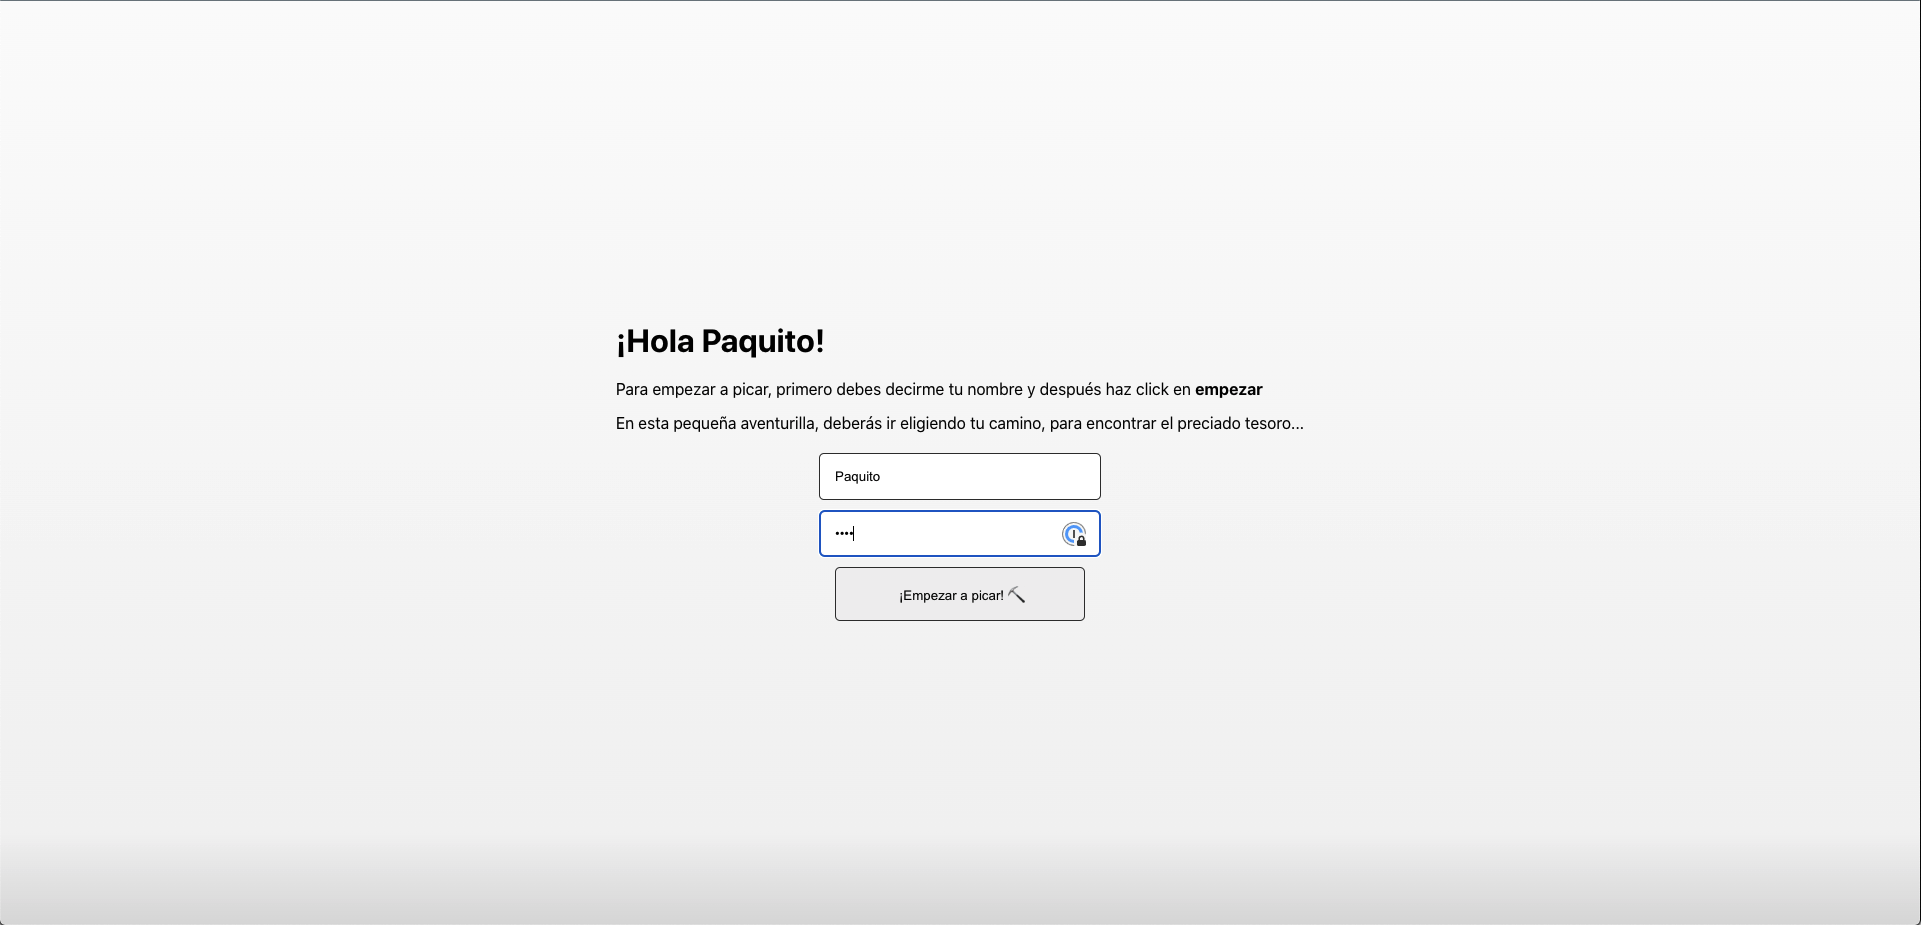
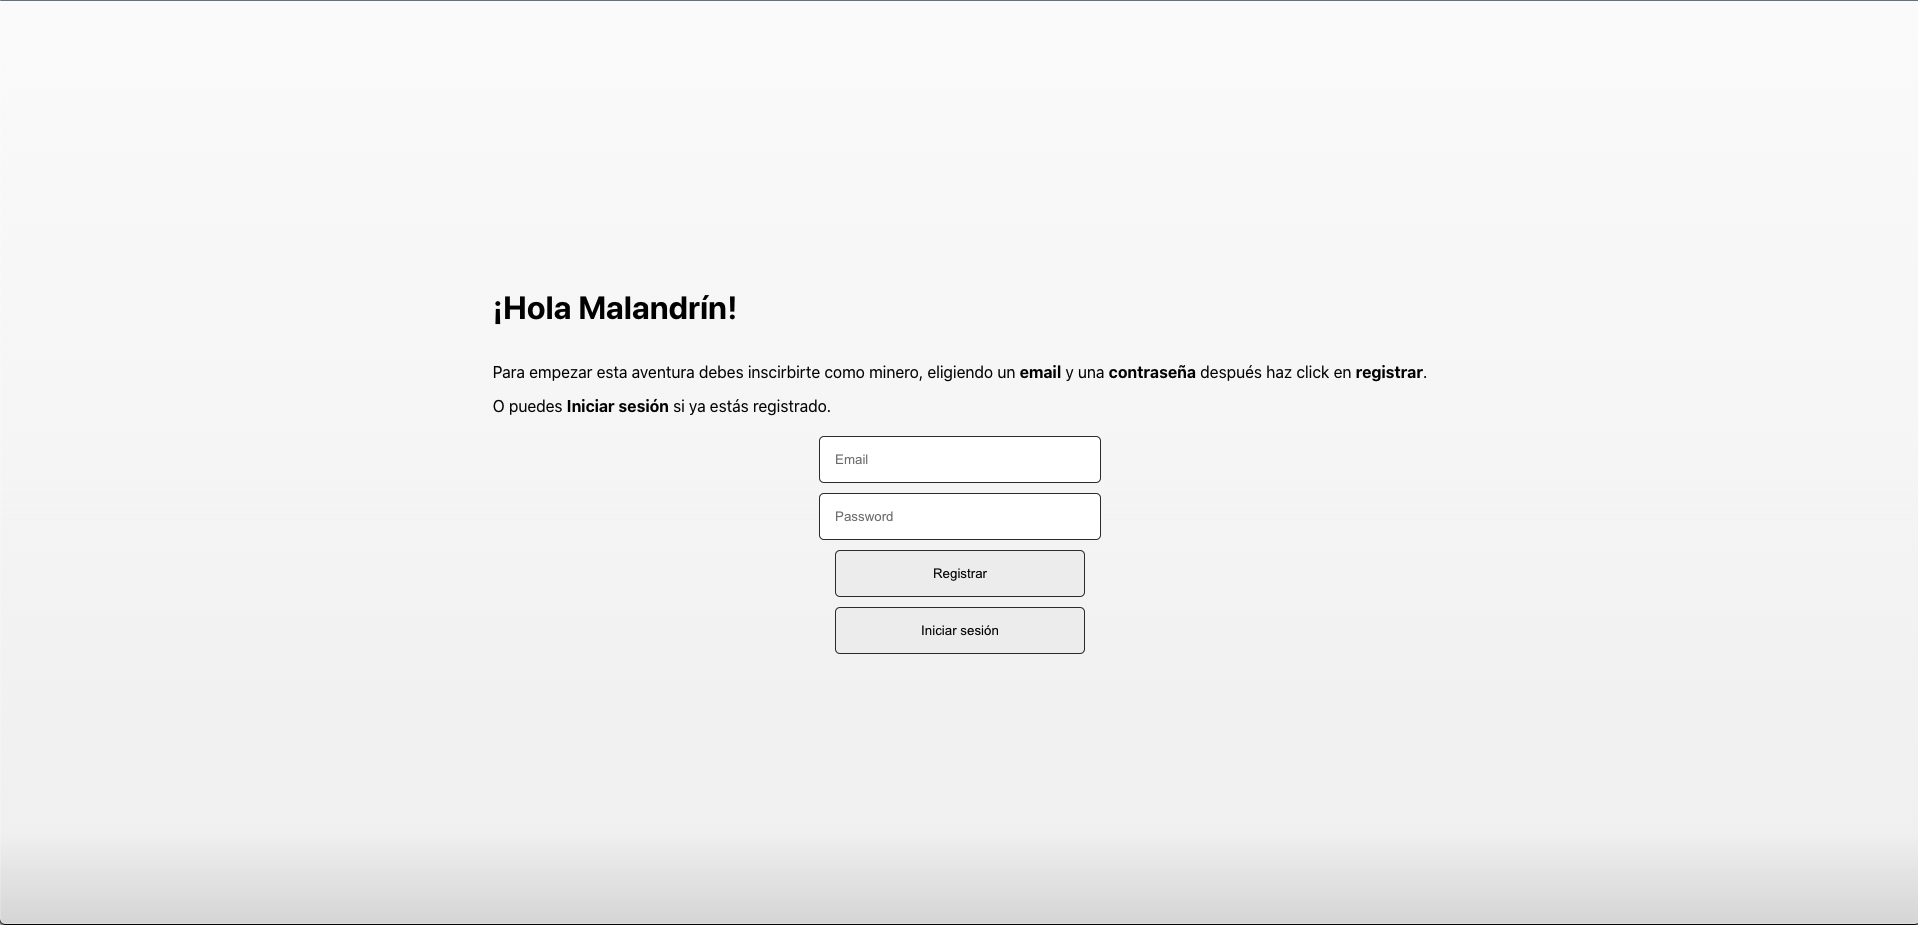
Añado gestión del usuario

Changed region(s): [[0.2461, 0.3027, 0.7383, 0.6962], [0.0, 0.9989, 1.0, 1.0]]

diff --git a/backend-de-la-suerte-app/src/App.js b/backend-de-la-suerte-app/src/App.js
@@ -1,24 +1,21 @@
 import './App.css';
-import {
-  createClient
-} from '@supabase/supabase-js'
+import { supabase } from './supabase';
+
 import {
   useState,
   useEffect
 } from 'react'
 import { LoadingSpinner } from './components/LoadingSpinner';
+import { Auth } from './components/Auth';
+import { Account } from './components/Account';
 import { EmojiCard } from './components/EmojiCard';
 
-const supabaseUrl = process.env.REACT_APP_SUPABASE_URL
-const supabaseAnonKey = process.env.REACT_APP_SUPABASE_ANON_KEY
 
-export const supabase = createClient(supabaseUrl, supabaseAnonKey)
 
 
 const App = () => {
     const [loading, setLoading] = useState(false)
     const [emojis, setEmojis] = useState([])
-    const [scene, setScene] = useState(1)
     const [partidaStarted, setPartidaStarted] = useState(false)
     const [partida, setPartida] = useState({})
     const [currentAttempts, setCurrentAttempts] = useState(-1)
@@ -29,6 +26,17 @@ const App = () => {
     const [currentCat, setCurrentCat] = useState({})
     const [currentCatId, setCurrentCatId] = useState(0)
     const [attemptSummary, setAttemptSummary] = useState([])
+    const [session, setSession] = useState(null)
+    const [numeroPartidas, setNumeroPartidas] = useState(0)
+
+    useEffect(() => {
+      setSession(supabase.auth.session())
+  
+      supabase.auth.onAuthStateChange((_event, session) => {
+        setSession(session)
+      })
+    }, [])
+
 
     // Para que cargue solo una vez los primeros emojis
     useEffect(() => {
@@ -56,6 +64,18 @@ const App = () => {
         getEmojisByCat(partida.id_categoriafinal)
       }
     }, [maxAttemptsReached])
+
+    useEffect(() => {
+      if(session){
+        getNumeroPartidas()
+      }
+    }, [session])
+
+    
+    const showLoading = async (showLoading) => {
+      setLoading(showLoading)
+
+    }
 
 
     const getCategoryById = async (catId) => {
@@ -220,21 +240,23 @@ const App = () => {
         console.log(error.message)
       }
     }
+    const reIniciarPartida = () => {
+      getNumeroPartidas()
+
+      setPartidaStarted(false)
+      setMaxAttemptsReached(false)
+    }
+
 
     const iniciarPartida = () => {
 
-      if(userName===''||userPassword===''){
-        alert('Por favor introduce usuario y contraseña')
-        return 
-      }
-
+      setMaxAttemptsReached(false)
 
 
       setLoading(true)
-      registrarUsuario().then(userData => {
+      
 
-        console.log({'response':userData})
-        registrarPartida(userData.id).then(response => {
+        registrarPartida(supabase.auth.user().id).then(response => {
           getCategoryById(response.id_categoriaInicial).then(catResponse => {
             setCurrentCat(catResponse)
             setCurrentCatId(catResponse.id)
@@ -247,38 +269,37 @@ const App = () => {
 
             
         })
-      })
+
       
 
     }
-    const registrarUsuario = async () => {
-      // Registro el usuario
+
+
+    // Make a function that gets the number of registers in table partidas for a user id
+    const getNumeroPartidas = async () => {
+      console.log('getNumeroPartidas')
       try {
         const {
           data,
           error
         } = await supabase
-          .from('mineros')
-          .insert({'userName':userName, 'userPassword':userPassword})
-        if (error != null) {
+          .from('partidas')
+          .select('*')
+          .eq('id_user', supabase.auth.user().id)
+        if (error !== null) {
           throw error
         }
         if(data){
-          console.log({'data':data})
-          return data[0]
+          console.log(data.length)
+          setNumeroPartidas(data.length)
         } 
         
       } catch (error) {
-        alert(error)
+        console.log(error.message)
       } finally {
       }
 
-
-
     }
-
-
-
 
     const registrarPartida = async (userId) => {
       try {
@@ -287,7 +308,7 @@ const App = () => {
           error
         } = await supabase
           .from('partidas')
-          .insert({'id_minero':userId})
+          .insert({'id_user':userId})
         if (error !== null) {
           throw error
         }
@@ -317,13 +338,16 @@ const App = () => {
       return ( <LoadingSpinner></LoadingSpinner> )
     }
     if(!partidaStarted){
-      return <div className='container'><h1>¡Hola {userName.length !== 0 && userName}{userName.length === 0 && 'Malandrín'}!</h1><p>Para empezar a picar, primero debes decirme tu nombre y después haz click en <strong>empezar</strong></p><p>En esta pequeña aventurilla, deberás ir eligiendo tu camino, para encontrar el preciado tesoro...</p>
-      <p className="red">Los campos son obligatorios para empezar</p>
-
+      return <div className='container'><h1>¡Hola {!session ? 'Malandrín' : session.user.email}!</h1>
+      {!session ? <div><p>Para empezar esta aventura debes inscirbirte como minero, eligiendo un <strong>email</strong> y una <strong> contraseña</strong> después haz click en <strong>registrar</strong>.</p><p>O puedes <strong>Iniciar sesión</strong> si ya estás registrado.</p></div> : <div><h3>¡Bienvenido!</h3><p>Cuando estés listo puedes hacer click en <strong>Empezar a picar</strong></p><p>Has jugado un total de <strong>{numeroPartidas}</strong> partidas</p> </div> }
       <div className='loginForm'>
-      <input required value={userName} onInput={e => setUserName(e.target.value)} type="text" name="userName" placeholder="Paquito el minero"></input>
-      <input required value={userPassword} onInput={e => setUserPassword(e.target.value)} type="password" name="userPassword" placeholder="1234"></input>
-      <button onClick={() => iniciarPartida()}>¡Empezar a picar! ⛏</button>
+        {!session ? <Auth showLoading={showLoading} /> : 
+          <div>
+          <button className='start' onClick={() => iniciarPartida()}>¡Empezar a picar! ⛏</button>
+          <Account key={session.user.id} session={session} />
+        </div>      
+        }
+    
       </div>
       </div>
     }
@@ -350,6 +374,8 @@ const App = () => {
           </li>
         ))
       } </ul>
+
+      <button className='restart' onClick={() => reIniciarPartida()}>¡Volver a inicio! ⛏</button>
     </div>
 
     } 

diff --git a/backend-de-la-suerte-app/src/components/Auth/index.js b/backend-de-la-suerte-app/src/components/Auth/index.js
@@ -1,0 +1,78 @@
+import { useState } from 'react'
+import { supabase } from '../../supabase';
+import { LoadingSpinner } from  '../LoadingSpinner';
+
+
+export const Auth = (props) => {
+
+
+  const [loading, setLoading] = useState(false)
+  const [email, setEmail] = useState('')
+  const [password, setPassword] = useState('')
+
+  const handleRegister = async (e) => {
+
+    try {
+      props.showLoading(true)
+      const { error } = await supabase.auth.signUp({ email, password });
+      if (error) throw error
+    } catch (error) {
+      alert(error.error_description || error.message)
+    } finally {
+      props.showLoading(false)
+    }
+  }
+
+
+
+
+  const handleLogin = async (e) => {
+
+    try {
+      props.showLoading(true)
+      const { error } = await supabase.auth.signIn({ email, password });
+      if (error) throw error
+    } catch (error) {
+      alert(error.error_description || error.message)
+    } finally {
+      props.showLoading(false)
+    }
+  }
+  if (loading) {
+    return ( <LoadingSpinner></LoadingSpinner> )
+  }
+  return (
+    <div className="row flex flex-center">
+      <div className="col-6 form-widget" aria-live="polite">
+        {loading ? (
+          'Sending magic link...'
+        ) : (
+          <form className='loginForm'>
+            <input
+              id="email"
+              className="inputField"
+              type="email"
+              placeholder="Email"
+              value={email}
+              onChange={(e) => setEmail(e.target.value)}
+            />
+            <input
+              id="password"
+              className="inputField"
+              type="password"
+              placeholder="Password"
+              value={password}
+              onChange={(e) => setPassword(e.target.value)}
+            />
+            <button className="button block" aria-live="polite" onClick={() => handleRegister()}>
+              Registrar
+            </button>
+            <button className="button block" aria-live="polite" onClick={() => handleLogin()}>
+              Iniciar sesión
+            </button>            
+          </form>
+        )}
+      </div>
+    </div>
+  )
+}

diff --git a/backend-de-la-suerte-app/src/components/Account/index.js b/backend-de-la-suerte-app/src/components/Account/index.js
@@ -1,0 +1,81 @@
+import { useState, useEffect } from 'react'
+import { supabase } from '../../supabase';
+import { LoadingSpinner } from  '../LoadingSpinner';
+
+
+export const Account = ({ session }) => {
+  const [loading, setLoading] = useState(true)
+  const [username, setUsername] = useState(null)
+  const [website, setWebsite] = useState(null)
+  const [avatar_url, setAvatarUrl] = useState(null)
+
+  useEffect(() => {
+    getProfile()
+  }, [session])
+
+  const getProfile = async () => {
+    try {
+      setLoading(true)
+      const user = supabase.auth.user()
+
+      let { data, error, status } = await supabase
+        .from('profiles')
+        .select(`username, website, avatar_url`)
+        .eq('id', user.id)
+        .single()
+
+      if (error && status !== 406) {
+        throw error
+      }
+
+      if (data) {
+        setUsername(data.username)
+        setWebsite(data.website)
+        setAvatarUrl(data.avatar_url)
+      }
+    } catch (error) {
+      alert(error.message)
+    } finally {
+      setLoading(false)
+    }
+  }
+
+  const updateProfile = async (e) => {
+    e.preventDefault()
+
+    try {
+      setLoading(true)
+      const user = supabase.auth.user()
+
+      const updates = {
+        id: user.id,
+        username,
+        website,
+        avatar_url,
+        updated_at: new Date(),
+      }
+
+      let { error } = await supabase.from('profiles').upsert(updates, {
+        returning: 'minimal', // Don't return the value after inserting
+      })
+
+      if (error) {
+        throw error
+      }
+    } catch (error) {
+      alert(error.message)
+    } finally {
+      setLoading(false)
+    }
+  }
+
+  return (
+    <div aria-live="polite">      
+      <button type="button" className="button block" onClick={() => supabase.auth.signOut()}>
+        Cerrar sesión
+      </button>
+    </div>
+  )
+}
+
+export default Account

diff --git a/backend-de-la-suerte-app/src/App.css b/backend-de-la-suerte-app/src/App.css
@@ -96,3 +96,14 @@ div,ul {
   margin: 5px 0;
 
 }
+
+
+button.start, button.restart {
+  display: block;
+  border: 1px solid #313131;
+  padding: 15px 30px;
+  border-radius: 5px;
+  margin: 16px auto;
+  font-size: 20px;
+
+}

diff --git a/backend-de-la-suerte-app/src/supabase.js b/backend-de-la-suerte-app/src/supabase.js
@@ -1,0 +1,8 @@
+import { createClient } from '@supabase/supabase-js'
+
+const supabase = createClient(
+  process.env.REACT_APP_SUPABASE_URL,
+  process.env.REACT_APP_SUPABASE_ANON_KEY
+)
+
+export { supabase }
